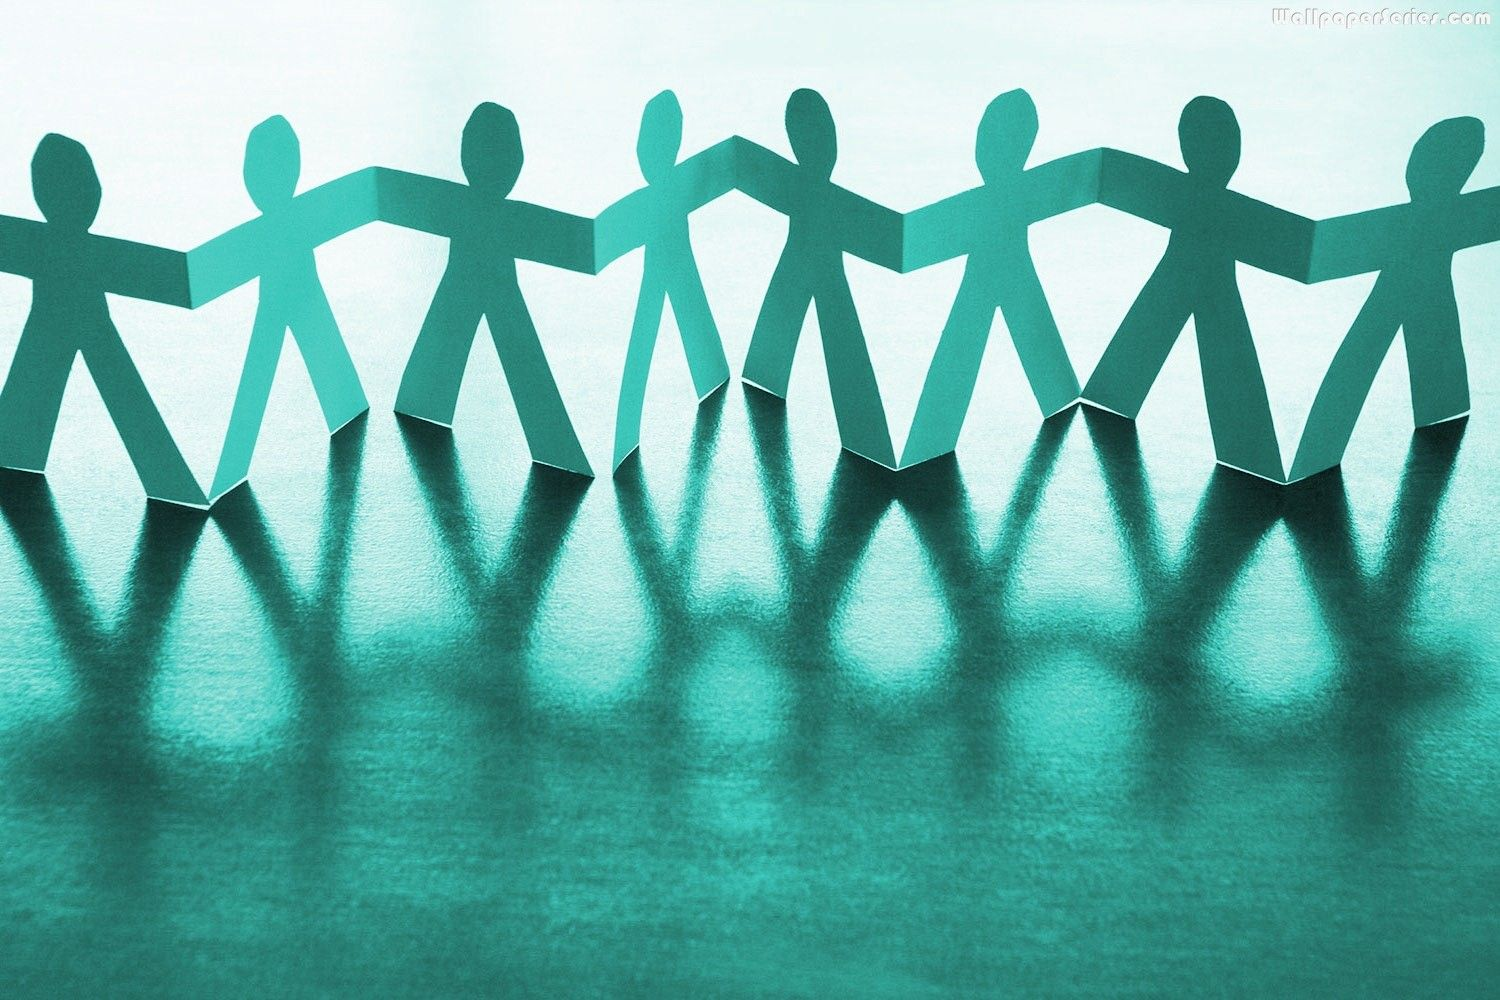
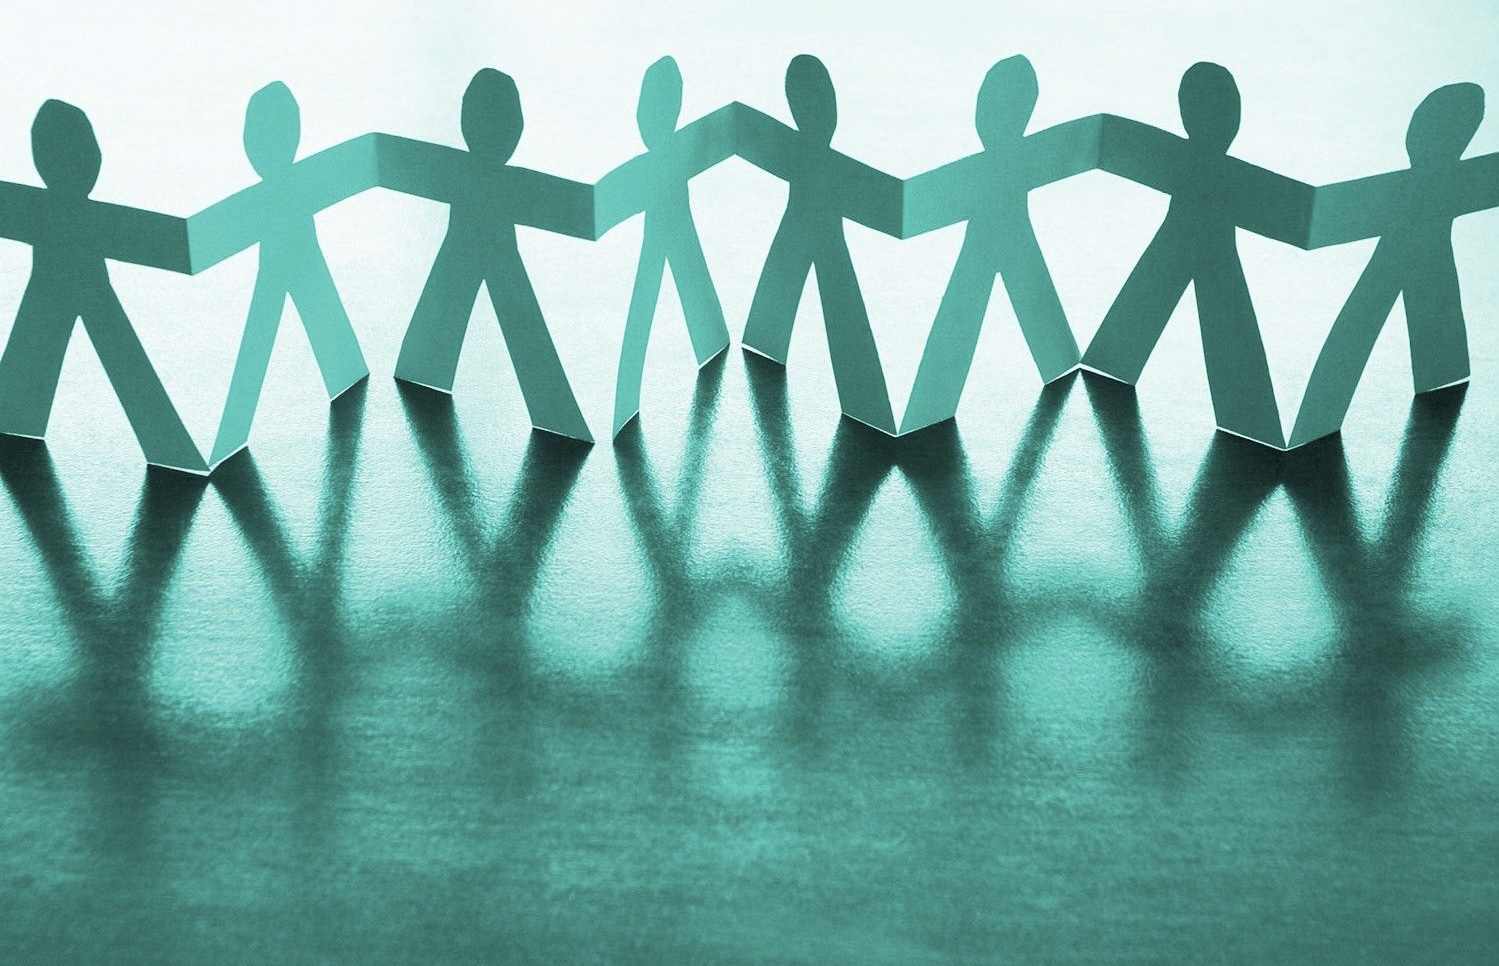
fixed background image and removed watermark

diff --git a/src/pages/Login.css b/src/pages/Login.css
@@ -1,8 +1,9 @@
 .Login {
-  background-color: white !important;
-  border-color: grey;
+  background-color: rgba(255, 255, 255, 0.99) !important;
+  border-color: rgba(0, 0, 0, 0.466);
   border-style: solid;
   border-width: 1px;
+  box-shadow: 1px 1px 100px 10px rgba(128, 128, 128, 0.315) inset;
   border-radius: 25px;
   padding: 5% 5% 5% 5%;
 
@@ -16,6 +17,8 @@
 
 .App-header {
   background-image: url('../assets/loginBG.jpeg');
+  background-size: cover;
+  /* background-color: aqua; */
   text-align: center;
   background-repeat: no-repeat;
   min-height: 100vh;
